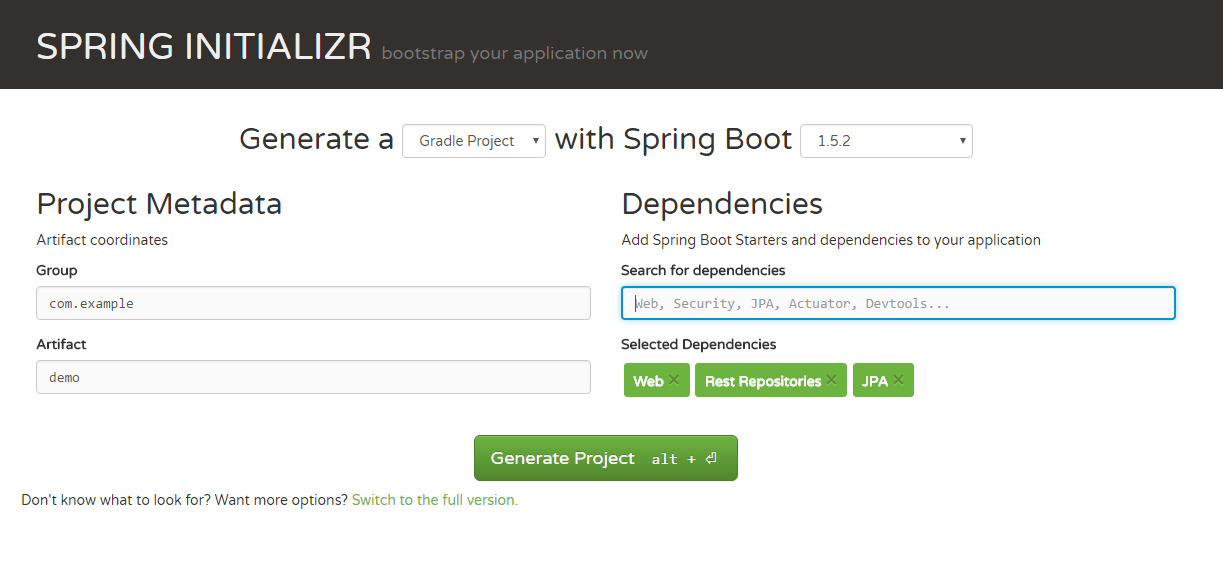
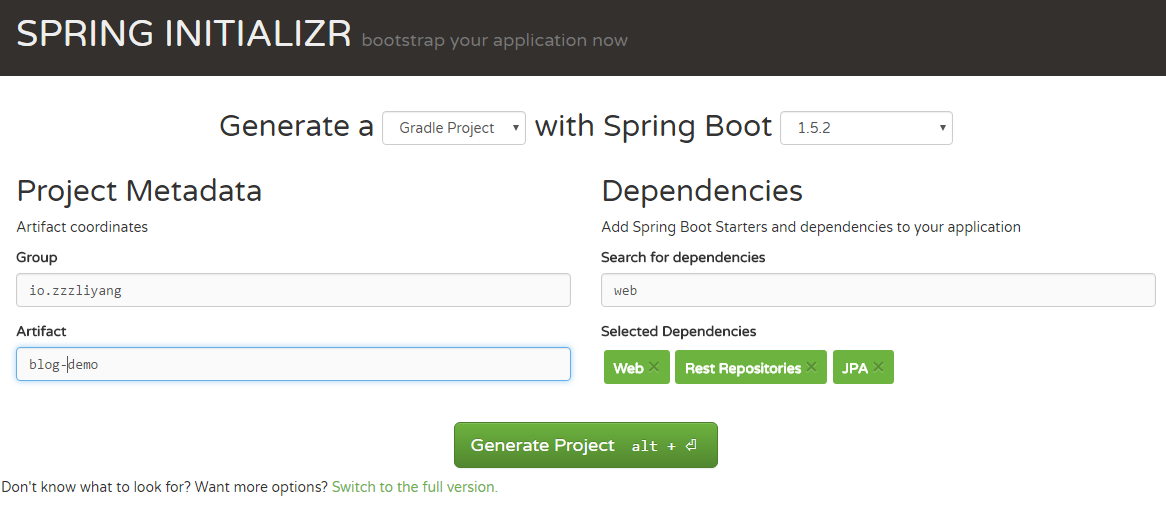
Site updated: 2017-03-18 10:09:34

diff --git a/2017/03/18/spring-boot/index.html b/2017/03/18/spring-boot/index.html
@@ -6,19 +6,25 @@
   <title>spring-boot | Yuzu House</title>
   <meta name="viewport" content="width=device-width, initial-scale=1, maximum-scale=1">
   <meta name="description" content="AboutIn this post I will show the steps of a quick Spring Boot web application :)
-Generate Spring Boot starter project">
+Generate Spring Boot starter projectGo to Spring Boot Starter.
+
+Click “Generate Project” to download Spring Boot proje">
 <meta property="og:type" content="article">
 <meta property="og:title" content="spring-boot">
 <meta property="og:url" content="https://zzzliyang.github.io/2017/03/18/spring-boot/index.html">
 <meta property="og:site_name" content="Yuzu House">
 <meta property="og:description" content="AboutIn this post I will show the steps of a quick Spring Boot web application :)
-Generate Spring Boot starter project">
+Generate Spring Boot starter projectGo to Spring Boot Starter.
+
+Click “Generate Project” to download Spring Boot proje">
 <meta property="og:image" content="https://zzzliyang.github.io/images/Boot Starter.PNG">
-<meta property="og:updated_time" content="2017-03-18T01:29:58.514Z">
+<meta property="og:updated_time" content="2017-03-18T02:07:49.778Z">
 <meta name="twitter:card" content="summary">
 <meta name="twitter:title" content="spring-boot">
 <meta name="twitter:description" content="AboutIn this post I will show the steps of a quick Spring Boot web application :)
-Generate Spring Boot starter project">
+Generate Spring Boot starter projectGo to Spring Boot Starter.
+
+Click “Generate Project” to download Spring Boot proje">
 <meta name="twitter:image" content="https://zzzliyang.github.io/images/Boot Starter.PNG">
   
     <link rel="alternate" href="/atom.xml" title="Yuzu House" type="application/atom+xml">
@@ -57,9 +63,9 @@ Generate Spring Boot starter project">
       </nav>
       <nav id="sub-nav">
         
-          <a id="nav-rss-link" class="nav-icon" href="/atom.xml" title="RSS Feed"></a>
+          <a id="nav-rss-link" class="nav-icon" href="/atom.xml" title="Flux RSS"></a>
         
-        <a id="nav-search-btn" class="nav-icon" title="Search"></a>
+        <a id="nav-search-btn" class="nav-icon" title="Rechercher"></a>
       </nav>
       <div id="search-form-wrap">
         <form action="//google.com/search" method="get" accept-charset="UTF-8" class="search-form"><input type="search" name="q" results="0" class="search-form-input" placeholder="Search"><button type="submit" class="search-form-submit">&#xF002;</button><input type="hidden" name="sitesearch" value="https://zzzliyang.github.io"></form>
@@ -91,12 +97,18 @@ Generate Spring Boot starter project">
     <div class="article-entry" itemprop="articleBody">
       
         <h2 id="About"><a href="#About" class="headerlink" title="About"></a>About</h2><p>In this post I will show the steps of a quick Spring Boot web application :)</p>
-<h2 id="Generate-Spring-Boot-starter-project"><a href="#Generate-Spring-Boot-starter-project" class="headerlink" title="Generate Spring Boot starter project"></a>Generate Spring Boot starter project</h2><p><img src="/images/Boot Starter.PNG" alt=""></p>
+<h2 id="Generate-Spring-Boot-starter-project"><a href="#Generate-Spring-Boot-starter-project" class="headerlink" title="Generate Spring Boot starter project"></a>Generate Spring Boot starter project</h2><p>Go to <a href="https://http://start.spring.io/" target="_blank" rel="external">Spring Boot Starter</a>.</p>
+<p><img src="/images/Boot Starter.PNG" alt="Spring Boot Starter"></p>
+<p>Click “Generate Project” to download Spring Boot project skeleton. Unzip and import project to Intellij.</p>
+<figure class="highlight plain"><table><tr><td class="gutter"><pre><div class="line">1</div><div class="line">2</div><div class="line">3</div><div class="line">4</div><div class="line">5</div><div class="line">6</div></pre></td><td class="code"><pre><div class="line">dependencies &#123;</div><div class="line">	compile(&apos;org.springframework.boot:spring-boot-starter-data-jpa&apos;)</div><div class="line">	compile(&apos;org.springframework.boot:spring-boot-starter-data-rest&apos;)</div><div class="line">	compile(&apos;org.springframework.boot:spring-boot-starter-web&apos;)</div><div class="line">	testCompile(&apos;org.springframework.boot:spring-boot-starter-test&apos;)</div><div class="line">&#125;</div></pre></td></tr></table></figure>
+<p>These “starters” in build.gradle are important in Spring Boot. It allows you to define “one” dependency which implicitly requires all other necessary dependencies.  </p>
+<p>BlogDemoApplication is the starting point of this Spring Boot project.</p>
+<figure class="highlight plain"><table><tr><td class="gutter"><pre><div class="line">1</div><div class="line">2</div><div class="line">3</div><div class="line">4</div><div class="line">5</div><div class="line">6</div><div class="line">7</div></pre></td><td class="code"><pre><div class="line">@SpringBootApplication</div><div class="line">public class BlogDemoApplication &#123;</div><div class="line"></div><div class="line">	public static void main(String[] args) &#123;</div><div class="line">		SpringApplication.run(BlogDemoApplication.class, args);</div><div class="line">	&#125;</div><div class="line">&#125;</div></pre></td></tr></table></figure>
 
       
     </div>
     <footer class="article-footer">
-      <a data-url="https://zzzliyang.github.io/2017/03/18/spring-boot/" data-id="cj0eimyry00010c99q8qkijsc" class="article-share-link">Share</a>
+      <a data-url="https://zzzliyang.github.io/2017/03/18/spring-boot/" data-id="cj0em83mk00013099rd7rcl3m" class="article-share-link">Partager</a>
       
       
     </footer>
@@ -107,7 +119,7 @@ Generate Spring Boot starter project">
   
   
     <a href="/2017/03/18/hello-world/" id="article-nav-older" class="article-nav-link-wrap">
-      <strong class="article-nav-caption">Older</strong>
+      <strong class="article-nav-caption">Ancien</strong>
       <div class="article-nav-title">Hello World</div>
     </a>
   
@@ -140,7 +152,7 @@ Generate Spring Boot starter project">
   
     
   <div class="widget-wrap">
-    <h3 class="widget-title">Recent Posts</h3>
+    <h3 class="widget-title">Articles récents</h3>
     <div class="widget">
       <ul>
         
@@ -165,7 +177,7 @@ Generate Spring Boot starter project">
   <div class="outer">
     <div id="footer-info" class="inner">
       &copy; 2017 Liyang<br>
-      Powered by <a href="http://hexo.io/" target="_blank">Hexo</a>
+      Propulsé by <a href="http://hexo.io/" target="_blank">Hexo</a>
     </div>
   </div>
 </footer>

diff --git a/index.html b/index.html
@@ -48,9 +48,9 @@
       </nav>
       <nav id="sub-nav">
         
-          <a id="nav-rss-link" class="nav-icon" href="/atom.xml" title="RSS Feed"></a>
+          <a id="nav-rss-link" class="nav-icon" href="/atom.xml" title="Flux RSS"></a>
         
-        <a id="nav-search-btn" class="nav-icon" title="Search"></a>
+        <a id="nav-search-btn" class="nav-icon" title="Rechercher"></a>
       </nav>
       <div id="search-form-wrap">
         <form action="//google.com/search" method="get" accept-charset="UTF-8" class="search-form"><input type="search" name="q" results="0" class="search-form-input" placeholder="Search"><button type="submit" class="search-form-submit">&#xF002;</button><input type="hidden" name="sitesearch" value="https://zzzliyang.github.io"></form>
@@ -84,12 +84,18 @@
     <div class="article-entry" itemprop="articleBody">
       
         <h2 id="About"><a href="#About" class="headerlink" title="About"></a>About</h2><p>In this post I will show the steps of a quick Spring Boot web application :)</p>
-<h2 id="Generate-Spring-Boot-starter-project"><a href="#Generate-Spring-Boot-starter-project" class="headerlink" title="Generate Spring Boot starter project"></a>Generate Spring Boot starter project</h2><p><img src="/images/Boot Starter.PNG" alt=""></p>
+<h2 id="Generate-Spring-Boot-starter-project"><a href="#Generate-Spring-Boot-starter-project" class="headerlink" title="Generate Spring Boot starter project"></a>Generate Spring Boot starter project</h2><p>Go to <a href="https://http://start.spring.io/" target="_blank" rel="external">Spring Boot Starter</a>.</p>
+<p><img src="/images/Boot Starter.PNG" alt="Spring Boot Starter"></p>
+<p>Click “Generate Project” to download Spring Boot project skeleton. Unzip and import project to Intellij.</p>
+<figure class="highlight plain"><table><tr><td class="gutter"><pre><div class="line">1</div><div class="line">2</div><div class="line">3</div><div class="line">4</div><div class="line">5</div><div class="line">6</div></pre></td><td class="code"><pre><div class="line">dependencies &#123;</div><div class="line">	compile(&apos;org.springframework.boot:spring-boot-starter-data-jpa&apos;)</div><div class="line">	compile(&apos;org.springframework.boot:spring-boot-starter-data-rest&apos;)</div><div class="line">	compile(&apos;org.springframework.boot:spring-boot-starter-web&apos;)</div><div class="line">	testCompile(&apos;org.springframework.boot:spring-boot-starter-test&apos;)</div><div class="line">&#125;</div></pre></td></tr></table></figure>
+<p>These “starters” in build.gradle are important in Spring Boot. It allows you to define “one” dependency which implicitly requires all other necessary dependencies.  </p>
+<p>BlogDemoApplication is the starting point of this Spring Boot project.</p>
+<figure class="highlight plain"><table><tr><td class="gutter"><pre><div class="line">1</div><div class="line">2</div><div class="line">3</div><div class="line">4</div><div class="line">5</div><div class="line">6</div><div class="line">7</div></pre></td><td class="code"><pre><div class="line">@SpringBootApplication</div><div class="line">public class BlogDemoApplication &#123;</div><div class="line"></div><div class="line">	public static void main(String[] args) &#123;</div><div class="line">		SpringApplication.run(BlogDemoApplication.class, args);</div><div class="line">	&#125;</div><div class="line">&#125;</div></pre></td></tr></table></figure>
 
       
     </div>
     <footer class="article-footer">
-      <a data-url="https://zzzliyang.github.io/2017/03/18/spring-boot/" data-id="cj0eimyry00010c99q8qkijsc" class="article-share-link">Share</a>
+      <a data-url="https://zzzliyang.github.io/2017/03/18/spring-boot/" data-id="cj0em83mk00013099rd7rcl3m" class="article-share-link">Partager</a>
       
       
     </footer>
@@ -134,7 +140,7 @@
       
     </div>
     <footer class="article-footer">
-      <a data-url="https://zzzliyang.github.io/2017/03/18/hello-world/" data-id="cj0eilyep00000c99ap74a1vt" class="article-share-link">Share</a>
+      <a data-url="https://zzzliyang.github.io/2017/03/18/hello-world/" data-id="cj0em83mg00003099cxb5hhcg" class="article-share-link">Partager</a>
       
       
     </footer>
@@ -169,7 +175,7 @@
   
     
   <div class="widget-wrap">
-    <h3 class="widget-title">Recent Posts</h3>
+    <h3 class="widget-title">Articles récents</h3>
     <div class="widget">
       <ul>
         
@@ -194,7 +200,7 @@
   <div class="outer">
     <div id="footer-info" class="inner">
       &copy; 2017 Liyang<br>
-      Powered by <a href="http://hexo.io/" target="_blank">Hexo</a>
+      Propulsé by <a href="http://hexo.io/" target="_blank">Hexo</a>
     </div>
   </div>
 </footer>

diff --git a/2017/03/18/hello-world/index.html b/2017/03/18/hello-world/index.html
@@ -101,7 +101,7 @@ Quick">
       
     </div>
     <footer class="article-footer">
-      <a data-url="https://zzzliyang.github.io/2017/03/18/hello-world/" data-id="cj0ej1mux00008499ryjoc9eq" class="article-share-link">Partager</a>
+      <a data-url="https://zzzliyang.github.io/2017/03/18/hello-world/" data-id="cj0em83mg00003099cxb5hhcg" class="article-share-link">Partager</a>
       
       
     </footer>
